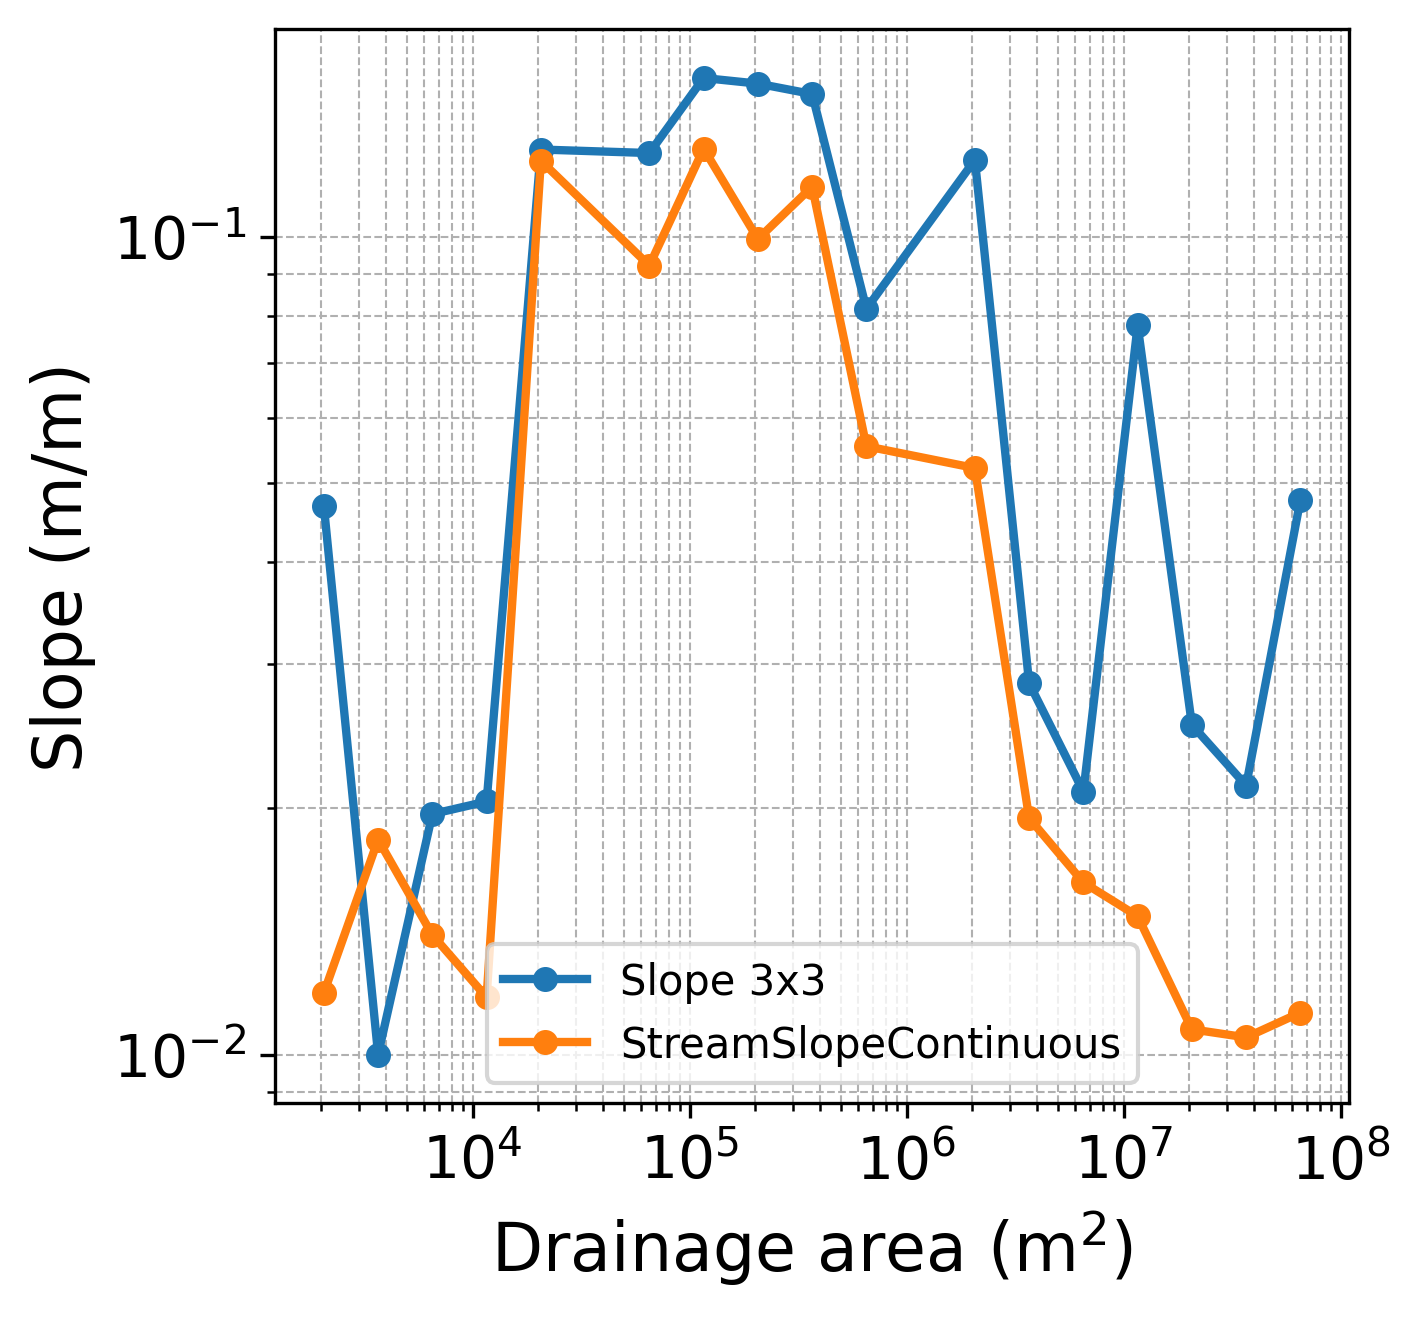
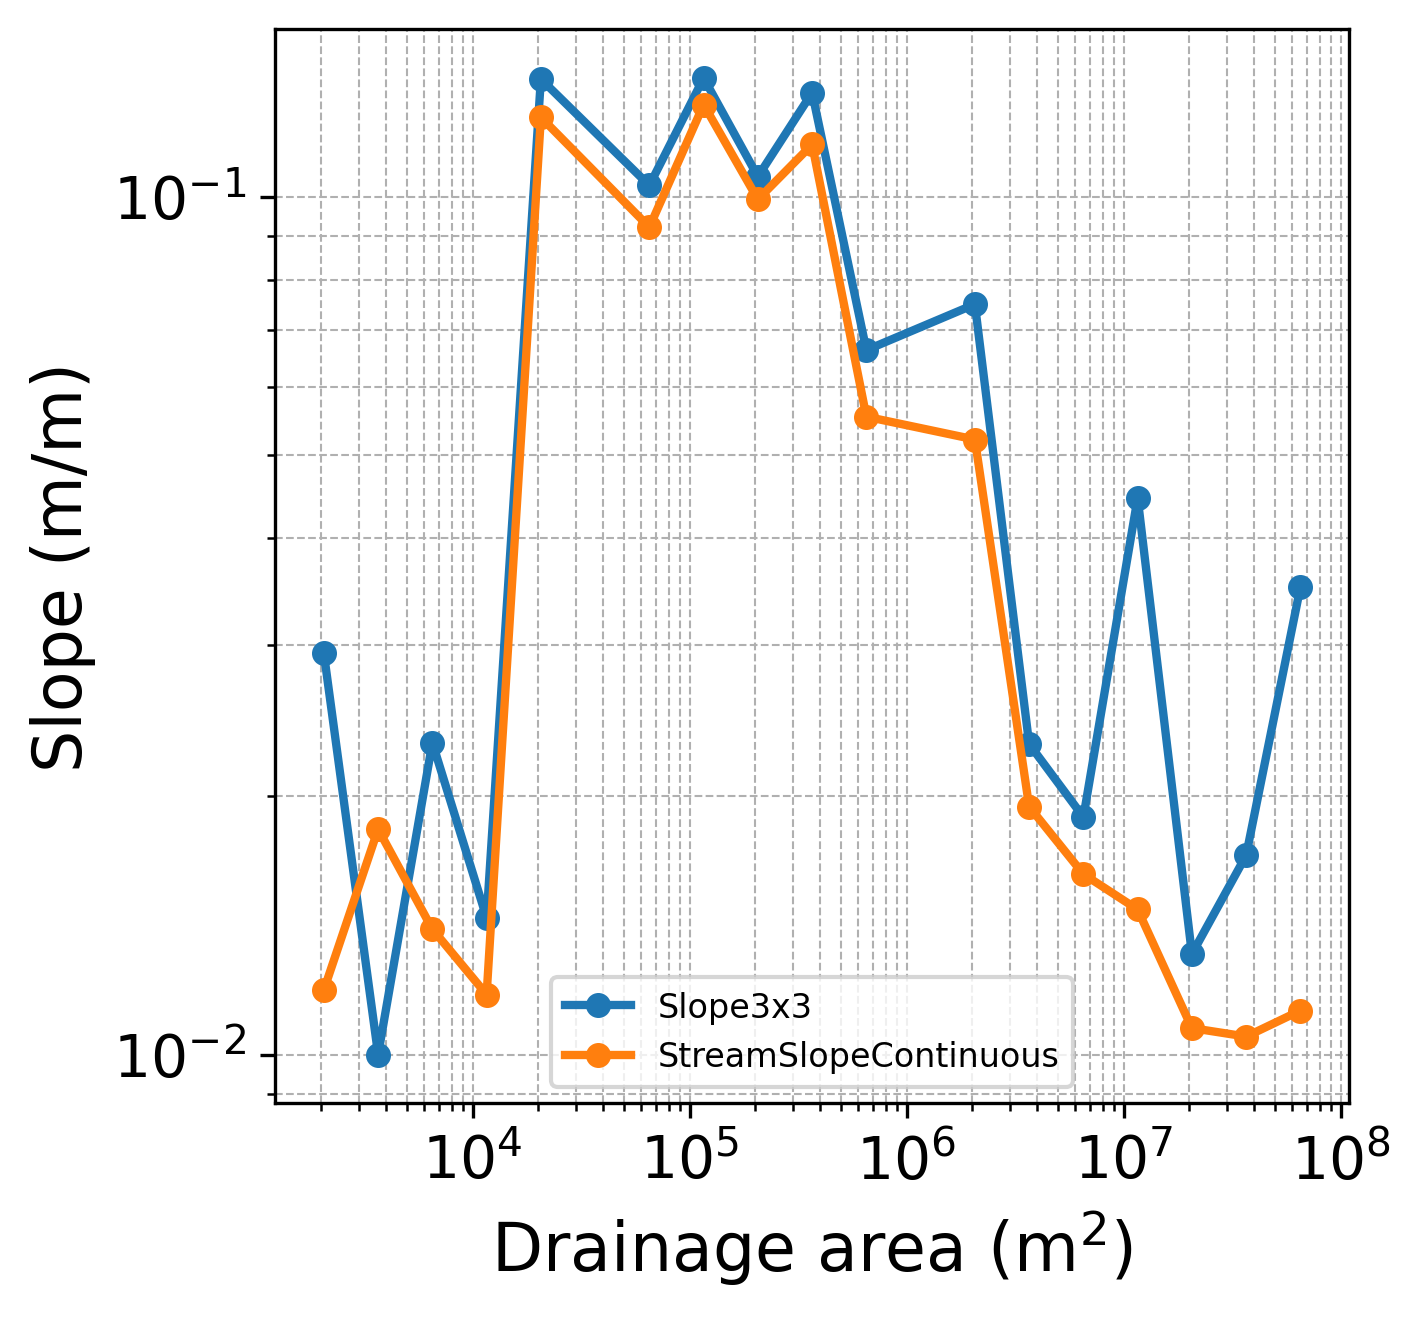
change legend font size in example

Changed region(s): [[0.2169, 0.0311, 0.9296, 0.8405], [0.093, 0.1245, 0.1859, 0.2179], [0.8986, 0.7472, 0.9296, 0.7783]]

diff --git a/README.md b/README.md
@@ -42,7 +42,7 @@ trial = Trial(trial_config).run()
 slope_area_plot(
     data=trial.profiles,
     out_fig=out_fig,
-    config=SlopeAreaPlotConfig(hue='slope_type'),
+    config=SlopeAreaPlotConfig(hue='slope_type', legend_font_size=8),
 )
 ```
 <img src="https://raw.githubusercontent.com/alecsandrei/slope-area/refs/heads/main/data/processed/00_minimal_example/slope_area.png" alt="drawing" width="400"/>
